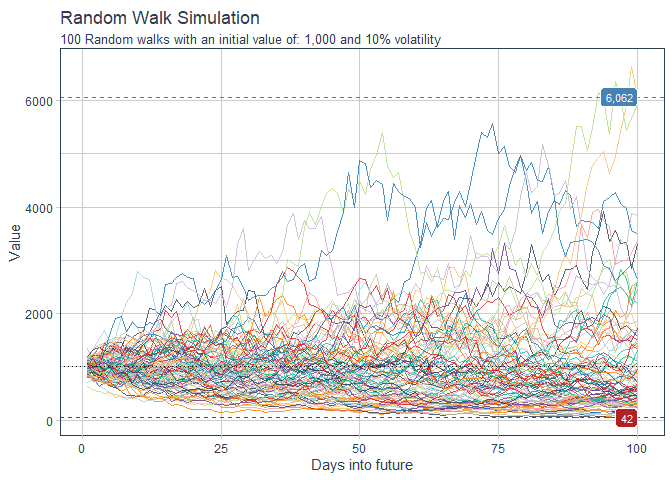
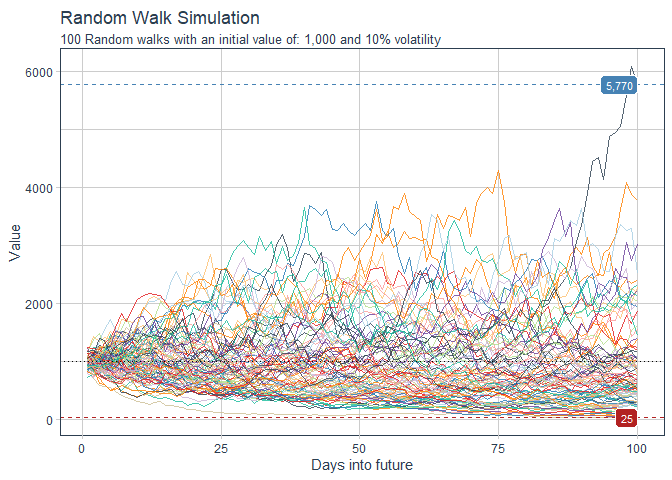
try to fix cran badge

diff --git a/README.md b/README.md
@@ -4,8 +4,8 @@
 # healthyR.ts <img src="man/figures/healthyR_ts6.png" width="147" height="170" align="right" />
 
 <!-- badges: start -->
+<!--[![CRAN_Status_Badge](http://www.r-pkg.org/badges/version/healthyR.ts)](https://cran.r-project.org/package=healthyR.ts) -->
 
-[![CRAN\_Status\_Badge](http://www.r-pkg.org/badges/version/healthyR.ts)](https://cran.r-project.org/package=healthyR.ts)
 ![](https://cranlogs.r-pkg.org/badges/healthyR.ts)
 ![](https://cranlogs.r-pkg.org/badges/grand-total/healthyR.ts)
 [![Lifecycle:
@@ -47,14 +47,14 @@ df <- ts_random_walk()
 
 head(df)
 #> # A tibble: 6 x 4
-#>     run     x        y cum_y
-#>   <dbl> <dbl>    <dbl> <dbl>
-#> 1     1     1  0.142   1142.
-#> 2     1     2  0.0545  1204.
-#> 3     1     3  0.00296 1208.
-#> 4     1     4 -0.0175  1187.
-#> 5     1     5  0.113   1321.
-#> 6     1     6  0.0394  1373.
+#>     run     x       y cum_y
+#>   <dbl> <dbl>   <dbl> <dbl>
+#> 1     1     1  0.0695 1070.
+#> 2     1     2 -0.0854  978.
+#> 3     1     3  0.147  1122.
+#> 4     1     4  0.0666 1197.
+#> 5     1     5  0.0370 1241.
+#> 6     1     6  0.0574 1312.
 ```
 
 Now that the data has been generated, lets take a look at it.
